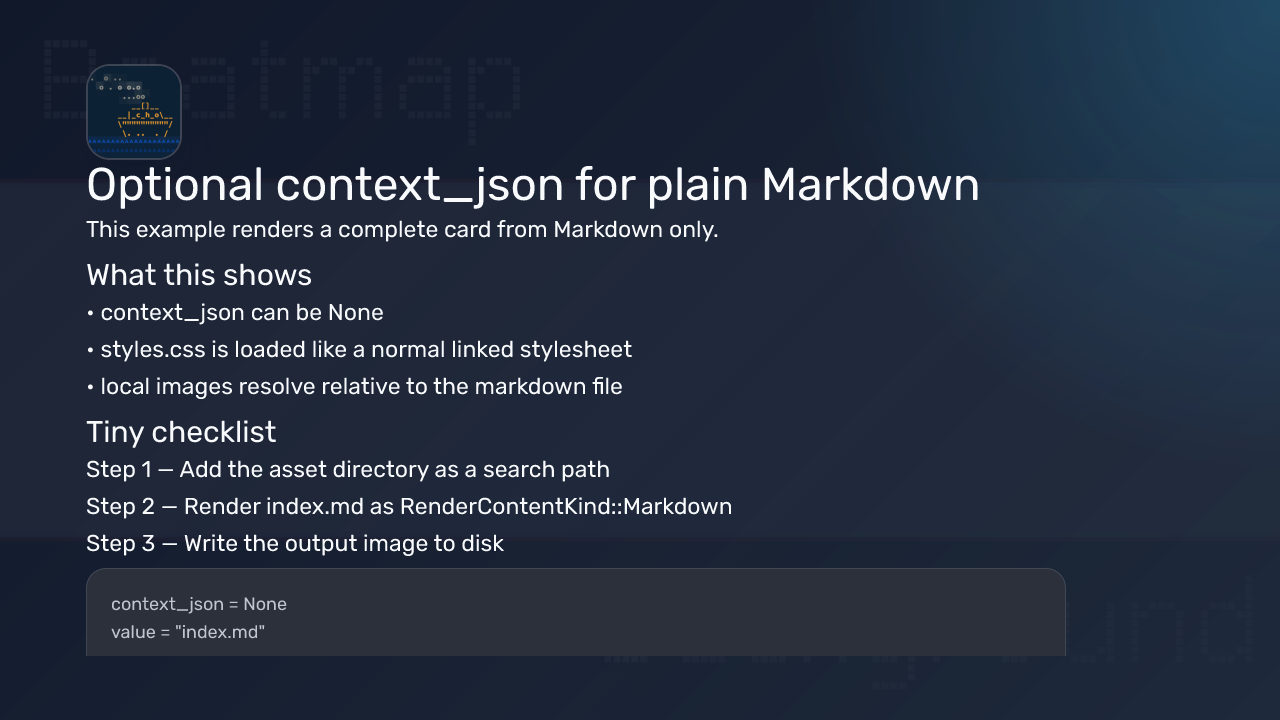
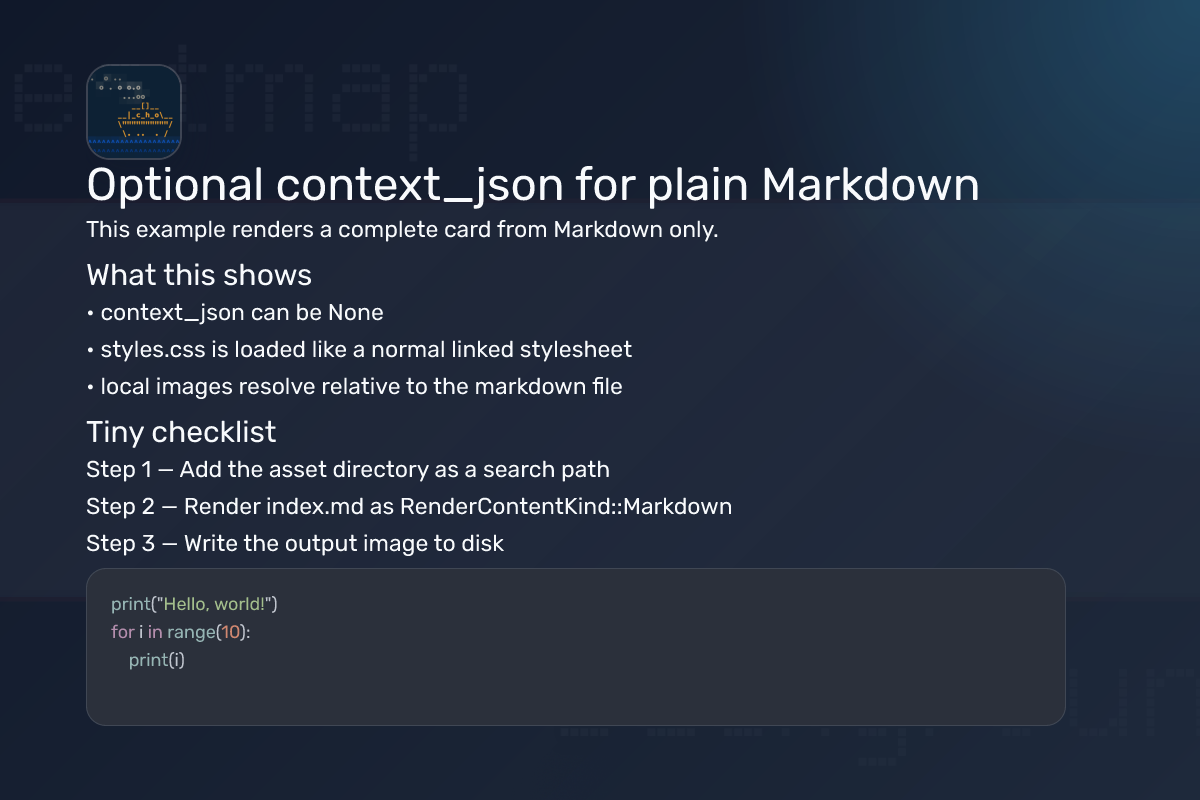
修复md的渲染问题

Changed region(s): [[0.0617, 0.0611, 0.8325, 0.8861]]

diff --git a/examples/assets/jinjaMarkdownArticle/styles.css b/examples/assets/jinjaMarkdownArticle/styles.css
@@ -1,7 +1,7 @@
 html, body {
   display: block;
-  width: 1280px;
-  height: 720px;
+  width: 1200px;
+  height: 800px;
   margin: 0;
 }
 
@@ -11,7 +11,7 @@ html, body {
 
 body {
   display: block;
-  padding: 52px 72px;
+  padding: 42px 64px;
   color: #e2e8f0;
   font-family: "Rubik", sans-serif;
   background:
@@ -27,16 +27,16 @@ body > * {
 }
 
 body > * + * {
-  margin-top: 18px;
+  margin-top: 14px;
 }
 
 img {
   display: block;
-  width: 420px;
+  width: 360px;
   max-width: 100%;
-  height: 220px;
+  height: 180px;
   object-fit: cover;
-  border-radius: 28px;
+  border-radius: 24px;
   border: 1px solid rgba(148, 163, 184, 0.28);
   box-shadow: 0 24px 56px rgba(2, 6, 23, 0.45);
 }
@@ -44,7 +44,7 @@ img {
 h1 {
   display: block;
   margin: 0;
-  font-size: 48px;
+  font-size: 42px;
   line-height: 1.08;
 }
 
@@ -62,14 +62,14 @@ p {
   display: block;
   margin: 0;
   max-width: 960px;
-  font-size: 22px;
-  line-height: 1.58;
+  font-size: 20px;
+  line-height: 1.5;
 }
 
 h2 {
   display: block;
-  margin: 10px 0 0;
-  font-size: 30px;
+  margin: 6px 0 0;
+  font-size: 28px;
 }
 
 ul {
@@ -98,8 +98,8 @@ code {
 pre {
   display: block;
   width: 100%;
-  margin: 6px 0 0;
-  padding: 22px 24px;
+  margin: 4px 0 0;
+  padding: 18px 20px;
   border-radius: 20px;
   background: rgba(15, 23, 42, 0.82);
   border: 1px solid rgba(148, 163, 184, 0.18);
@@ -109,7 +109,7 @@ pre {
 
 pre code {
   display: block;
-  font-size: 17px;
-  line-height: 1.55;
+  font-size: 16px;
+  line-height: 1.45;
   white-space: pre-wrap;
 }

diff --git a/examples/assets/markdownBlogPost/styles.css b/examples/assets/markdownBlogPost/styles.css
@@ -1,7 +1,7 @@
 html, body {
   display: block;
-  width: 1280px;
-  height: 720px;
+  width: 1200px;
+  height: 800px;
   margin: 0;
 }
 

diff --git a/bindings/takumi-render-uniffi/examples/render_jinja_markdown_article.rs b/bindings/takumi-render-uniffi/examples/render_jinja_markdown_article.rs
@@ -26,8 +26,8 @@ fn main() -> Result<(), Box<dyn Error>> {
     let request = RenderRequest {
         context_json: Some(sample_context().to_string()),
         viewport: RenderSize {
-            width: 1280,
-            height: 720,
+            width: 1200,
+            height: 800,
         },
         format: ImageFormat::Png,
         input: RenderInput {
@@ -63,6 +63,6 @@ fn sample_context() -> serde_json::Value {
             "`context_json` is `Some(json)` only when the template needs variables.",
             "Relative assets still resolve from the template directory."
         ],
-        "code_sample": "context_json = Some(json)\ncontent_kind = JinjaMarkdown\nvalue = \"index.jinja.md\""
+        "code_sample": "println!(\"Hello, world!\"); // This is a Rust code snippet inside the Markdown content.",
     })
 }

diff --git a/bindings/takumi-render-uniffi/examples/render_markdown_blog_post.rs b/bindings/takumi-render-uniffi/examples/render_markdown_blog_post.rs
@@ -24,8 +24,8 @@ fn main() -> Result<(), Box<dyn Error>> {
     let request = RenderRequest {
         context_json: None,
         viewport: RenderSize {
-            width: 1280,
-            height: 720,
+            width: 1200,
+            height: 800,
         },
         format: ImageFormat::Png,
         input: RenderInput {

diff --git a/examples/assets/markdownBlogPost/index.md b/examples/assets/markdownBlogPost/index.md
@@ -22,7 +22,8 @@ Step 2 — Render `index.md` as `RenderContentKind::Markdown`
 
 Step 3 — Write the output image to disk
 
-```text
-context_json = None
-value = "index.md"
+```python
+print("Hello, world!")
+for i in range(10):
+    print(i)
 ```

diff --git a/examples/assets/jinjaMarkdownArticle/index.jinja.md b/examples/assets/jinjaMarkdownArticle/index.jinja.md
@@ -19,6 +19,6 @@ _By {{ author_name }} · {{ published_at }}_
 
 ## Build snippet
 
-```text
+```rust
 {{ code_sample }}
 ```